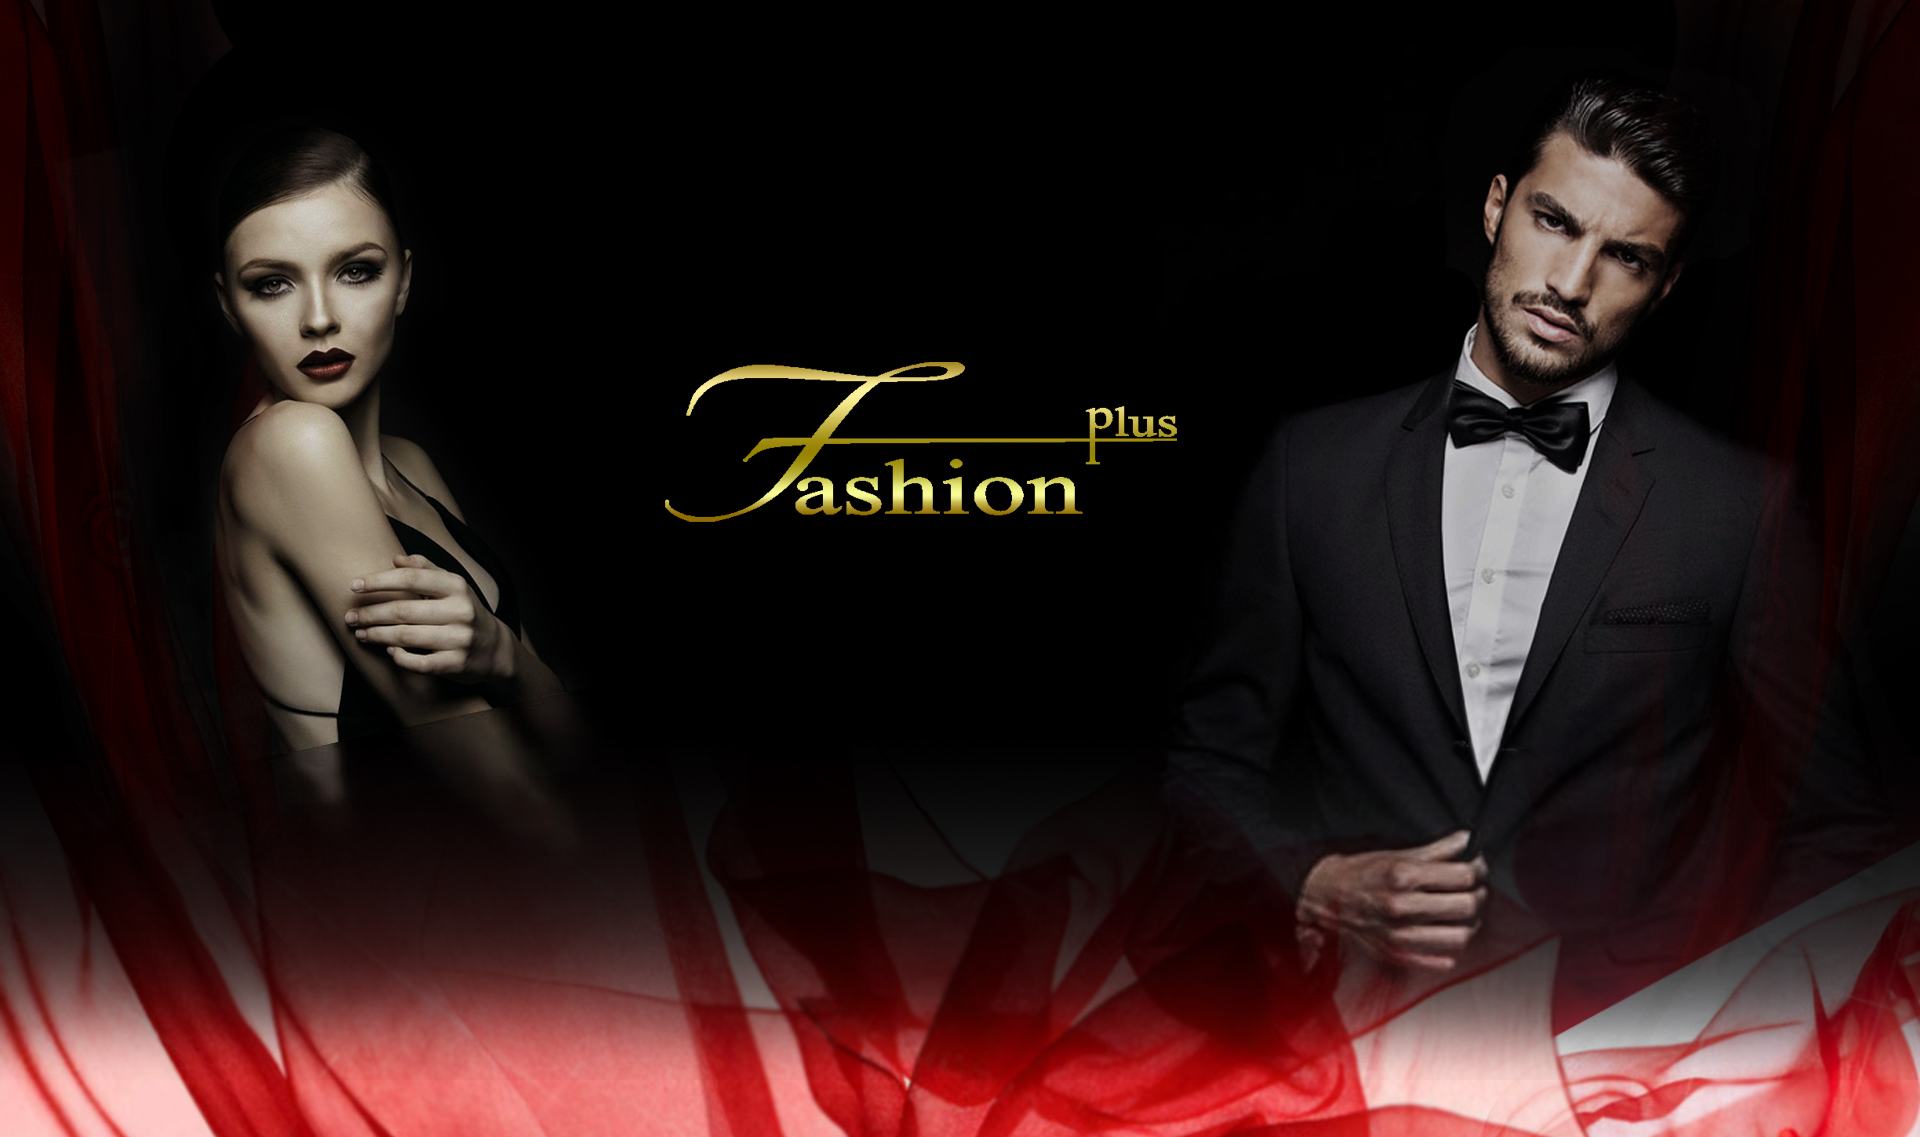
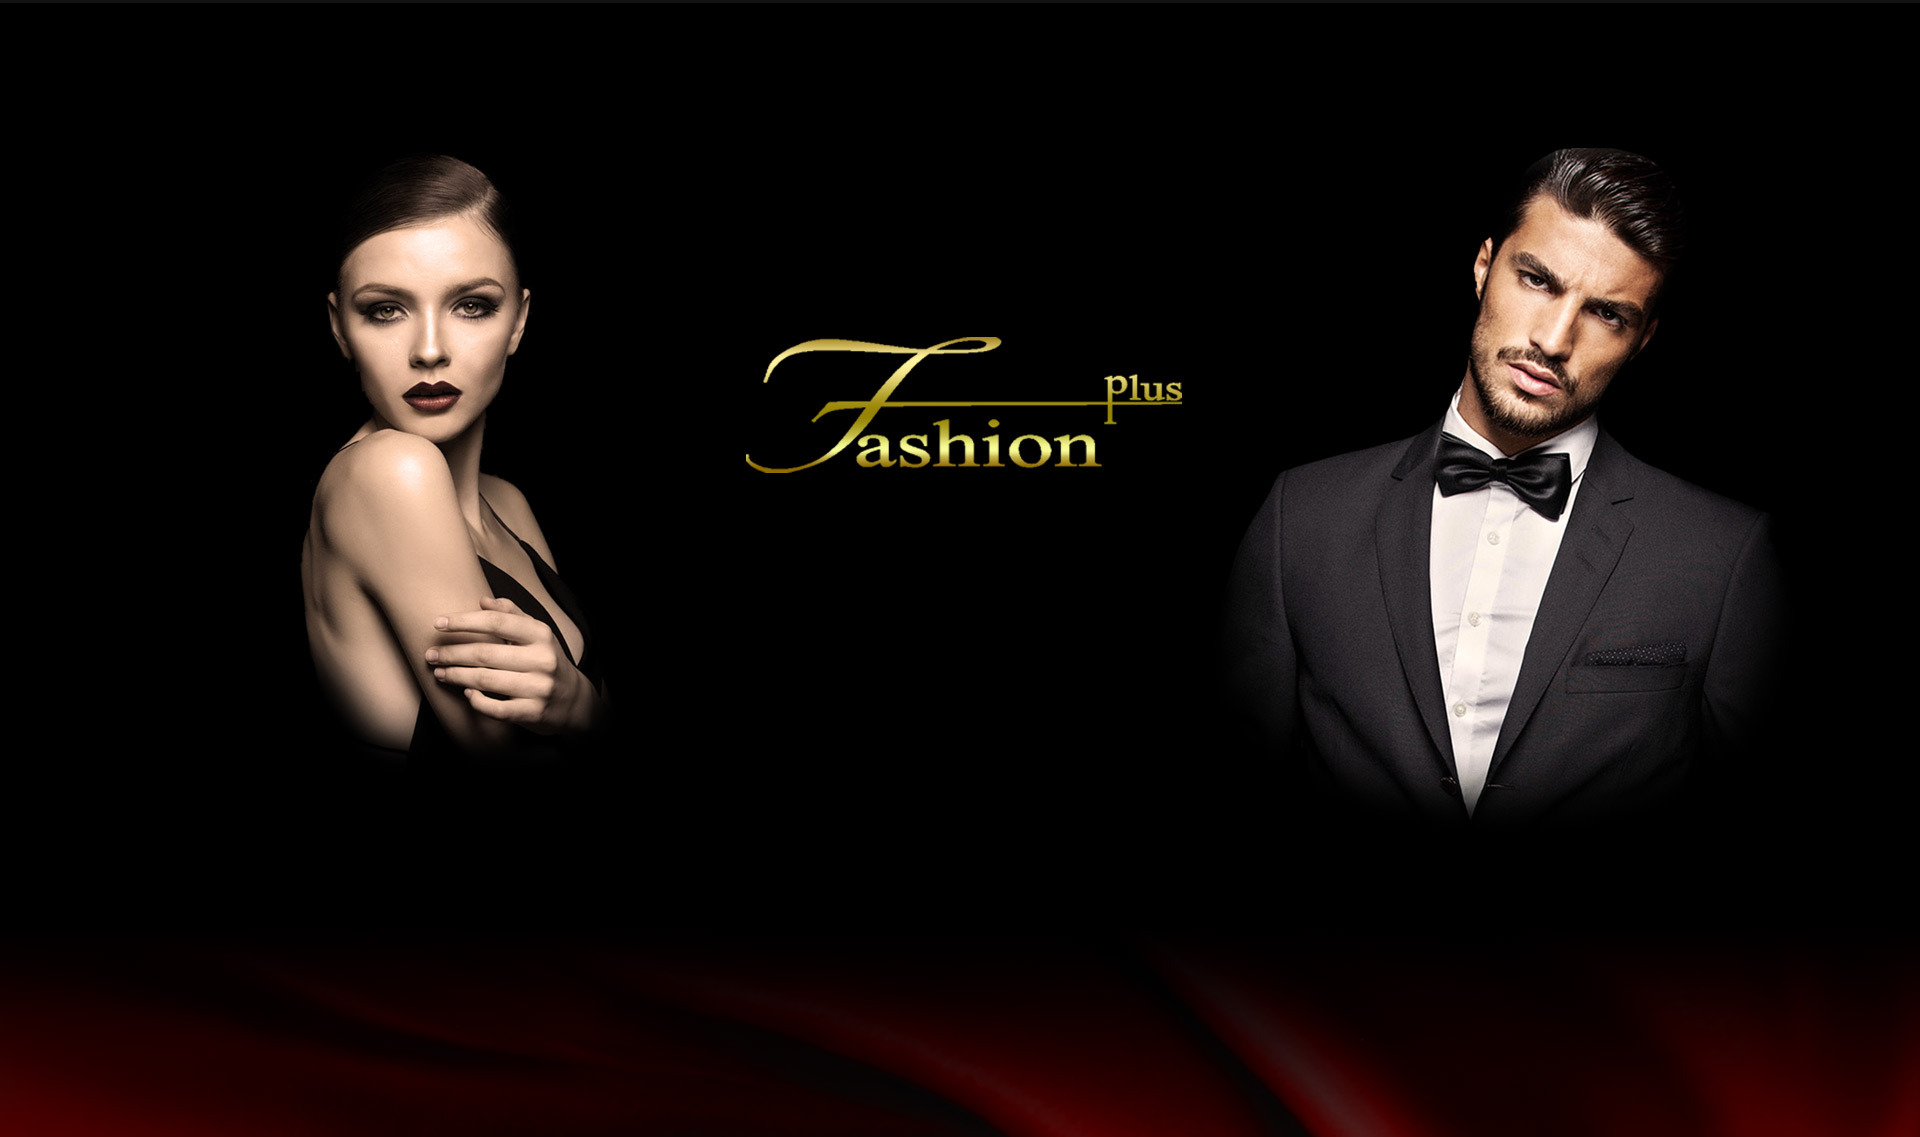
add background, style contacts

diff --git a/index.html b/index.html
@@ -8,6 +8,7 @@
     <link rel="stylesheet" href="assets/css/bulma.min.css" />
     <link rel="stylesheet" href="assets/css/main.css" />
     <script src="https://kit.fontawesome.com/fa6f3a289f.js"></script>
+    <link href="https://fonts.googleapis.com/css?family=Philosopher&display=swap" rel="stylesheet">
   </head>
   <body>
     <!-- Главное -->
@@ -78,7 +79,7 @@
             <div class="navbar-end">
               <div class="navbar-item">
                 <div class="buttons">
-                  <a class="button is-primary">
+                  <a href="#appointment" class="button is-primary">
                     <strong>Онлайн запись</strong>
                   </a>
                 </div>
@@ -91,7 +92,7 @@
     <!-- 3D Туры -->
     <section
       id="tours"
-      style="background-image: url(image/Second-Screen.jpg); background-position: top center;"
+      style="background-image: url(image/2.Second-Screen.jpg); background-position: top center;"
       class="section is-medium"
     >
       <h2>Наши салоны</h2>
@@ -108,21 +109,20 @@
     </section>
     <!-- Основное -->
     <section id="main">
-      <div class="columns">
+      <div class="columns" id="mainimg">
+        <div 
+          class="column"
+        ><img src="image/1-big.jpg" alt="">
+        <h2>Инновационный аппарат</h2></div>
         <div
-          class="column with-height"
-          style="background-image: url(image/ultherapy96.jpg)"
-        ></div>
-        <div
-          class="column with-height"
-          style="background-image: url(image/1-12.jpg)"
-        ></div>
+          class="column"
+        ><img src="image/2-big.jpg" alt=""><h2>Косметология</h2></div>
       </div>
     </section>
     <!-- Услуги -->
     <section
       id="services"
-      style="background-image: url(image/RepeatedBackground.jpg)"
+      style="background-image: url(image/Repeated-Background.jpg)"
     >
       <!-- Обе колонки -->
       <div class="columns is-multiline">
@@ -277,7 +277,7 @@
     <!-- Специалисты -->
     <section
       id="spectialists"
-      style="background-image: url(image/RepeatedBackground.jpg)"
+      style="background-image: url(image/Fourth-screen.jpg)"
       class="section is-medium"
     >
       <h2>Наши Специалисты</h2>
@@ -446,7 +446,7 @@
       </div>
     </section>
     <!-- Контакты -->
-    <section id="contacts" class="section is-medium">
+    <section id="contacts" style="background-image: url(image/Fifth-screen.jpg); background-size: cover;" class="section is-medium">
       <div class="container">
         <h2>Наши контакты</h2>
         <div class="container">
@@ -461,33 +461,34 @@
               <span class="icon">
                 <i class="fas fa-map-marker-alt"></i>
               </span>
-              <h3>Печерск</h3>
+              <h3>Теремки</h3>
             </div>
             <div class="column">
               <span class="icon">
                 <i class="fas fa-map-marker-alt"></i>
               </span>
-              <h3>Печерск</h3>
+              <h3>Соломенка</h3>
             </div>
           </div>
           <div class="columns">
             <div class="column">
               <p>Киев, бульв. Леси Украинки 7Б</p>
               <p>+38 (067) 599 11 77</p>
-              <button>Посмотреть на карте</button>
-              <button>Запись</button>
+              <a>Посмотреть на карте</a>
+              <a href="#appointment">Запись</a>
             </div>
             <div class="column">
-              <p>Киев, бульв. Леси Украинки 7Б</p>
-              <p>+38 (067) 599 11 77</p>
-              <button>Посмотреть на карте</button>
-              <button>Запись</button>
+              <p>Киев, ул. Академика Вильямса 6а</p>
+              <p>+38 (073) 323 18 55</p>
+              <a>Посмотреть на карте</a>
+              <a href="#appointment">Запись</a>
             </div>
             <div class="column">
-              <p>Киев, бульв. Леси Украинки 7Б</p>
-              <p>+38 (067) 599 11 77</p>
-              <button>Посмотреть на карте</button>
-              <button>Запись</button>
+              <p>Киев, ул. Кудряшова 20а 
+              </p>
+              <p>+38 (073) 414 80 08</p>
+              <a>Посмотреть на карте</a>
+              <a href="#appointment">Запись</a>
             </div>
           </div>
           <p>

diff --git a/assets/css/main.css b/assets/css/main.css
@@ -4,6 +4,10 @@
   padding: 0;
 }
 
+html {
+  scroll-behavior: smooth;
+}
+
 /* Not mobile */
 @media screen and (min-width: 769px) {
   .column.with-height {
@@ -64,6 +68,57 @@
 /* Section 3-4 */
 
 /* 25% for 4 in a row and 46% for 2 in a row */
+
+#main img {
+  z-index: -1;
+  width: 100%;
+}
+
+#main h2 {
+  position: absolute;
+  z-index: 999;
+  margin: 0 auto;
+  left: 0;
+  right: 0;
+  top: 40%;
+  max-width: 90%;
+  font-size: 3rem;
+  font-weight: 500;
+  text-align: center;
+  color: inherit;
+  background: #3a3a3a7a;
+  border-radius: 15px;
+}
+
+#main .column:hover + .column {
+  filter: brightness(0.5)!important;
+  color: transparent!important;
+}
+
+#main .column {
+  filter: brightness(1);
+  color: white;
+  cursor: pointer;
+  transition: all 0.3s ease-in;
+}
+
+#main:hover .column {
+  filter: brightness(0.5);
+  color: transparent;
+}
+
+#main .column:hover,
+#main .column:hover ~ .column {
+  filter: brightness(1);
+  color: white;
+}
+
+
+#main .column {
+  padding: 0;
+  position: relative;
+}
+
 .column.with-height {
   padding-top: 46%;
   position: relative;
@@ -242,7 +297,7 @@ h3 {
   border: none;
   padding: 6px 18px;
   cursor: pointer;
-  transition: all 0.5s ease-in; 
+  transition: all 0.3s ease-in; 
 }
 
 #appointment option {
@@ -260,10 +315,65 @@ h3 {
   color: white;
   border-width: 2px;
 }
-
-/* Section 9 */
-
 #appointment {
   color: white;
 }
 
+
+/* Contacts 9 */
+
+#contacts h2 {
+  margin-bottom: 20px;
+  font-size: 5rem;
+  text-transform: uppercase;
+}
+
+#contacts h3 {
+  color: #755b5b;
+  font-weight: 400;
+  padding: 5px 10px;
+  background: #ffffffab;
+  border-radius: 10px;
+  margin-bottom: 10px;
+  line-height: 1.125;
+  font-size: 3rem;
+}
+
+#contacts .icon {
+  font-size: 3rem;
+  color: red;
+} 
+
+#contacts a {    
+  display: block;
+  margin-top: 20px;
+  border-radius: 30px;
+  background: #0000005c;
+  color: white;
+  border: none;
+  padding: 6px 18px;
+  cursor: pointer;
+  width: 75%;
+  font-size: 1.2rem;
+  letter-spacing: 5px;
+  transition: all 0.3s ease-in; 
+}
+
+#contacts a:hover {
+  color: #c30d2c;
+  background-color: #00000024;
+}
+
+#contacts p {
+  margin-bottom: 5px;
+  font-family: 'Philosopher', sans-serif;
+}
+
+#contacts .icons .icon {
+  margin-left: 15px;
+}
+
+
+/* #contacts {
+  background-image: url(image/Fifth-screen.jpg);
+} */
